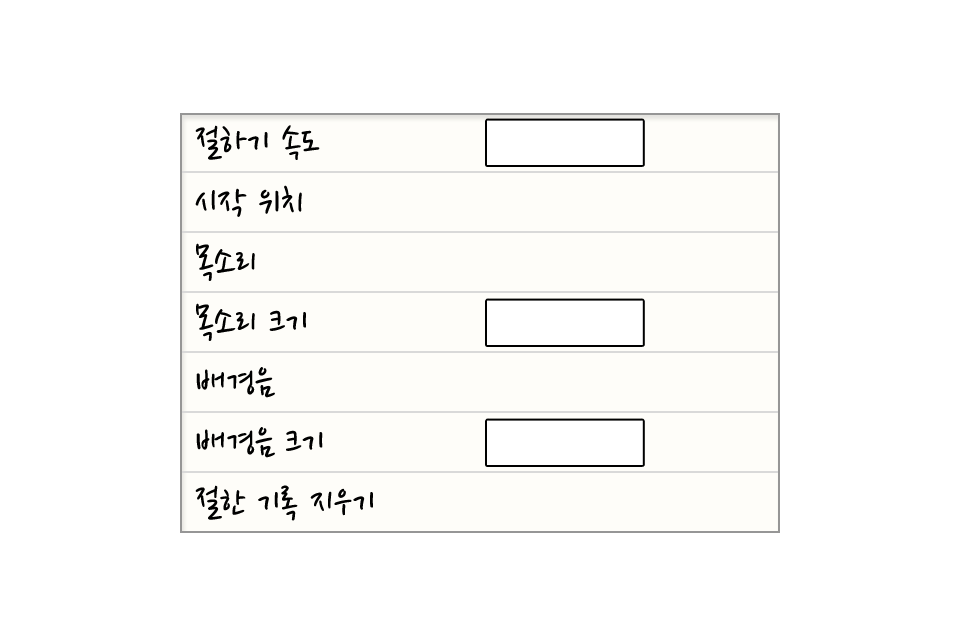
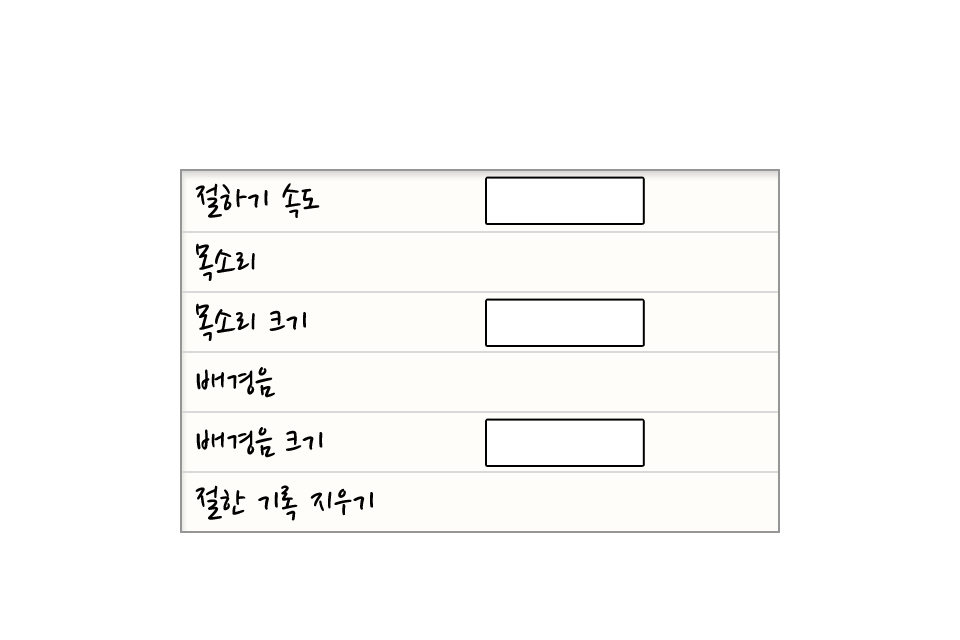
설정메뉴에서 이어하기 삭제

Changed region(s): [[0.1875, 0.1562, 0.8125, 0.3438]]

diff --git a/README.md b/README.md
@@ -21,18 +21,21 @@
 - [x] 시작하기 선택 UI
 - [x] 이어하기 UI 적용
 - [x] 시작하기 cell select effect
+- [ ] data 읽어오게 변경(app마다 다른요소 변수로 불러오게)
 - [ ] resource 풀 스크린 이미지 적용
 - [ ] project generate (리소스 갈아 끼우는 script)
 #### iOS
 - [x] 절하기
 - [x] 절하기 데이터 변경(key값 필히 변경)
 - [x] 기록 지우기 테스트
+- [x] 설정메뉴 이어하기 삭제
 - [x] 기록보기 UI
 - [x] 기록보기 scrollbar
 - [x] 기록이 없습니다 cell
 - [x] 시작하기 선택 UI
 - [x] 이어하기 UI 적용
 - [x] 시작하기 cell select effect
+- [ ] data 읽어오게 변경(app마다 다른요소 변수로 불러오게)
 - [ ] resource 풀 스크린 이미지 적용
 - [ ] project generate (리소스 갈아 끼우는 script)
 ## 절하기
